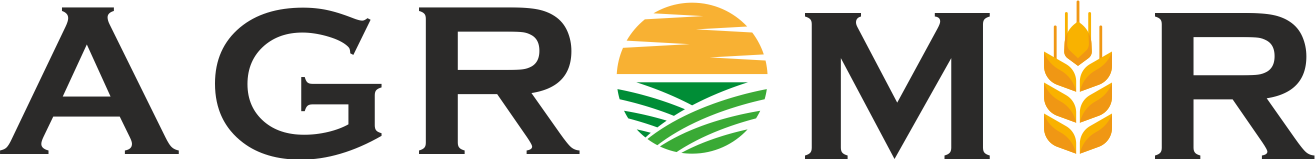
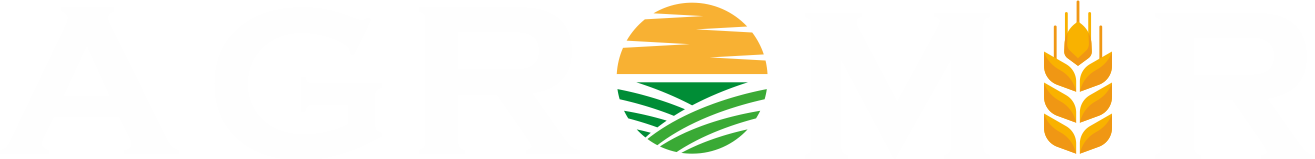
redesigned the whole shabang

diff --git a/index.html b/index.html
@@ -8,20 +8,36 @@
     <link rel="preconnect" href="https://fonts.googleapis.com">
 <link rel="preconnect" href="https://fonts.gstatic.com" crossorigin>
 <link href="https://fonts.googleapis.com/css2?family=Poppins&display=swap" rel="stylesheet">
+<link rel="preconnect" href="https://fonts.googleapis.com">
+<link rel="preconnect" href="https://fonts.gstatic.com" crossorigin>
+<link href="https://fonts.googleapis.com/css2?family=Edu+NSW+ACT+Foundation:wght@600&family=Poppins&display=swap" rel="stylesheet">
 </head>
 <body>
     <section class="header">
         <nav>
-            <a href="razvan.html"><img class="logo" src="imagini/Untitled-2.png"></a>
+            <a href="index.html"><img class="logo" src="imagini/Untitled-1.png"></a>
             <div class="nav-links">
                 <ul>
                     <li><a href="">Acasa</a></li>
-                    <li><a href="">Despre noi</a></li>
-                    <li><a href="">Produse</a></li>
-                    <li><a href="">Contact</a></li>
+                    <li><a href="">Verifica arenda</a></li>
+                    <li><a href="#div-form">Contact</a></li>
                 </ul>
             </div>
         </nav>
+        <div  class="contact-div">
+            <h1>Verifică arenda și stabilește ce produse vrei să ridici:</h1> <br>
+            <input class="input-cnp" type="text" placeholder="Introdu CNP-ul">
+               </div> 
     </section>
+<div id="div-form" class="div-form">
+    <form class="container-form">
+      <label for="name">Numele tau</label>
+      <input class="contact-input" type="text"><br>
+      <label for="email">Email-ul tau</label>
+      <input class="contact-input" type="email"><br>
+      <button id="form-button" type="submit">Apasa aici</button>
+      <button id="form-button" type="reset">Reseteaza</button> 
+    </form>
+  </div>
 </body>
 </html>

diff --git a/style.css b/style.css
@@ -3,10 +3,13 @@
     padding: 0;
     font-family: 'Poppins', sans-serif;
 }
+html {
+    scroll-behavior: smooth;
+  }
 .header{
     min-height: 100vh;
     width: 100%;
-    background-image: linear-gradient(rgba(4,9,30,0.7),rgba(4,9,30,0.7)),url(imagini/DSC_0094.JPG);
+    background-image:url(imagini/entete-desa.png);
     background-position: center;
     background-size: cover;
     position: relative;
@@ -17,9 +20,12 @@ nav{
     padding: 2% 6%;
     justify-content: space-between;
     align-items: center;
+    position: sticky;
+    top: 0;
+    z-index: 999;
 }
 nav img{
-    width: 70px;
+    width: 150px;
 }
 .nav-links{
     flex: 1;
@@ -47,4 +53,53 @@ nav img{
 }
 .nav-links ul li:hover::after{
     width: 100%;
+}
+.container-form{
+    display: flex;
+    flex-direction: column;
+    justify-content: center;
+    align-items: center;
+    padding-top: 100px;
+    padding-bottom: 100px;
+    background-color: #65aa93;
+}
+#form-button{
+    border-radius: 12px;
+    width: 120px;
+    background-color: #287259;
+    margin: 2px;
+}
+.contact-input{
+ border-radius: 10px;
+ font-family: 'Edu NSW ACT Foundation', cursive;
+ width: 300px;
+ height: 30px;
+ font-size: large;
+ border: 2px solid #287259;
+ color: rgb(0, 0, 0);
+}
+.contact-input:hover{
+    border: 3px solid rgb(11, 226, 83);
+}
+.contact-div{
+    padding-top: 100px;
+display: flex;
+flex-direction: column;
+justify-content: center;
+align-items: center;
+}
+h1 {
+    color: aliceblue;
+}
+.input-cnp{
+    border-radius: 11px;
+    font-family: 'Edu NSW ACT Foundation', cursive;
+    width: 300px;
+    height: 30px;
+    font-size: large;
+    border: 2px solid #30a0eb;
+    color: rgb(0, 0, 0);
+}
+.input-cnp:hover{
+    border: 5px solid rgb(45, 135, 238);
 }
